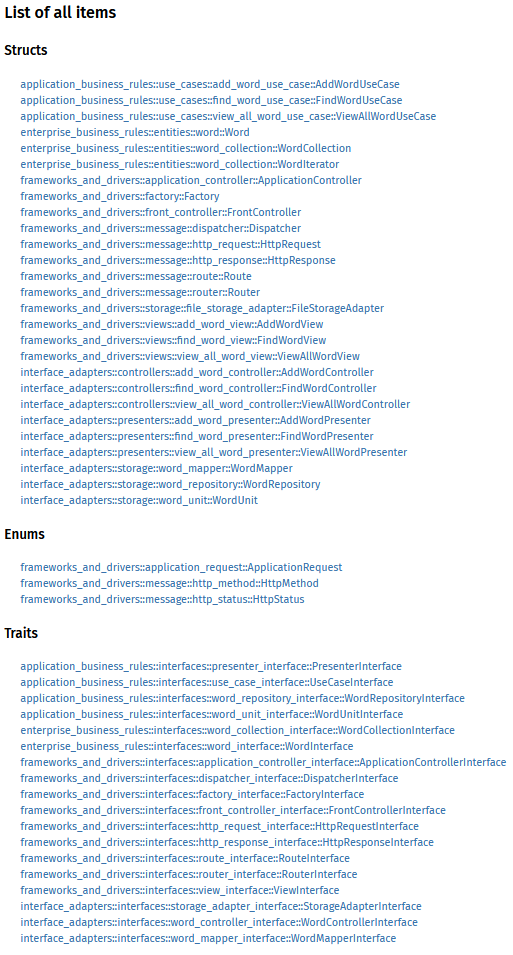
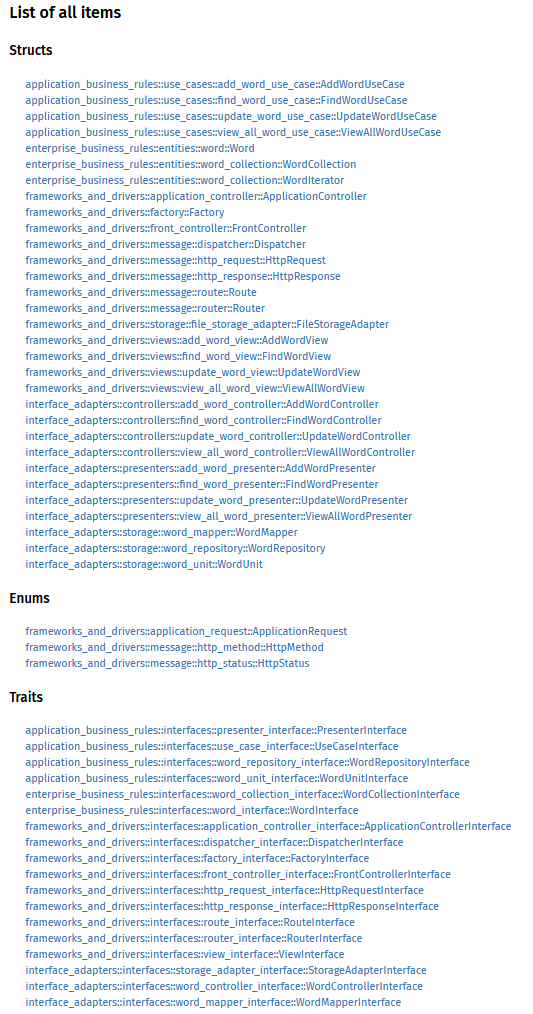
update

diff --git a/src/frameworks_and_drivers/front_controller.rs b/src/frameworks_and_drivers/front_controller.rs
@@ -50,7 +50,7 @@ impl FrontControllerInterface for FrontController {
 mod tests {
     use super::*;
     use crate::application_business_rules::interfaces::word_unit_interface::WordUnitInterface;
-    use crate::enterprise_business_rules::interfaces::word_interface::WordInterface;
+    use crate::frameworks_and_drivers::application_request::ApplicationRequest;
     use crate::frameworks_and_drivers::factory::Factory;
     use crate::frameworks_and_drivers::interfaces::factory_interface::FactoryInterface;
     use crate::frameworks_and_drivers::message::dispatcher::Dispatcher;
@@ -62,24 +62,13 @@ mod tests {
 
     #[test]
     fn find_word() {
-        let http_request: Box<dyn HttpRequestInterface> = Box::new(HttpRequest::new(
-            HttpMethod::Get,
-            "/words/ability".to_owned(),
-            None,
-        ));
-
         let route = Box::new(Route::new(HttpMethod::Get, "/words/*", "find_word"));
 
         let mut router: Box<dyn RouterInterface> = Box::new(Router::new());
 
         router.add_route(route);
 
-        let word_unit: Box<dyn WordUnitInterface> = {
-            let words: Vec<Box<dyn WordInterface>> = vec![];
-            let mut word_unit = Box::new(WordUnit::new());
-            word_unit.set_identity_map(words, false);
-            word_unit
-        };
+        let word_unit: Box<dyn WordUnitInterface> = Box::new(WordUnit::new());
 
         let factory: Box<dyn FactoryInterface> = Box::new(Factory::new());
 
@@ -87,12 +76,20 @@ mod tests {
 
         let mut front_controller = FrontController::new(dispatcher, router, word_unit);
 
+        //find existing word
+        let http_request: Box<dyn HttpRequestInterface> = Box::new(HttpRequest::new(
+            HttpMethod::Get,
+            "/words/ability".to_owned(),
+            None,
+        ));
+
         let http_response = front_controller.delegate(http_request);
 
         assert!(http_response
             .view_response()
-            .contains("Word \"ability\" is found"));
+            .contains("ability\n1000\nспособность"));
 
+        //find non-existing word
         let http_request: Box<dyn HttpRequestInterface> = Box::new(HttpRequest::new(
             HttpMethod::Get,
             "/words/qazxsw".to_owned(),
@@ -104,8 +101,6 @@ mod tests {
         assert!(http_response
             .view_response()
             .contains("Word \"qazxsw\" is not found"));
-
-        front_controller.commit_changes();
     }
 
     #[test]
@@ -132,6 +127,74 @@ mod tests {
         assert!(["a", "ability", "able"]
             .iter()
             .all(|&word| http_response.view_response().contains(word)));
+    }
+
+    #[test]
+    fn add_word_and_update() {
+        let router: Box<dyn RouterInterface> = {
+            let mut routes = vec![
+                Route::new(HttpMethod::Get, "/words/*", "find_word"),
+                Route::new(HttpMethod::Post, "/words", "add_word"),
+                Route::new(HttpMethod::Put, "/words", "update_word"),
+            ];
+
+            let mut router = Box::new(Router::new());
+            while let Some(route) = routes.pop() {
+                router.add_route(Box::new(route));
+            }
+            router
+        };
+
+        let word_unit: Box<dyn WordUnitInterface> = Box::new(WordUnit::new());
+
+        let factory: Box<dyn FactoryInterface> = Box::new(Factory::new());
+
+        let dispatcher: Box<dyn DispatcherInterface> = Box::new(Dispatcher::new(factory));
+
+        let mut front_controller = FrontController::new(dispatcher, router, word_unit);
+
+        //get non-existing word
+        let http_request: Box<dyn HttpRequestInterface> = Box::new(HttpRequest::new(
+            HttpMethod::Get,
+            "/words/newword".to_owned(),
+            None,
+        ));
+
+        let http_response = front_controller.delegate(http_request);
+
+        assert!(http_response
+            .view_response()
+            .starts_with("HTTP/1.1 404 Not Found"));
+
+        //add non-existing word
+        let http_request: Box<dyn HttpRequestInterface> = Box::new(HttpRequest::new(
+            HttpMethod::Post,
+            "/words".to_owned(),
+            Some(ApplicationRequest::Word((
+                "newword".to_owned(),
+                3000,
+                "новое слово".to_owned(),
+            ))),
+        ));
+
+        let http_response = front_controller.delegate(http_request);
+
+        assert!(http_response
+            .view_response()
+            .starts_with("HTTP/1.1 201 Created"));
+
+        //check new word
+        let http_request: Box<dyn HttpRequestInterface> = Box::new(HttpRequest::new(
+            HttpMethod::Get,
+            "/words/newword".to_owned(),
+            None,
+        ));
+
+        let http_response = front_controller.delegate(http_request);
+
+        //assert_eq!("", http_response.view_response());
+
+        assert!(http_response.view_response().starts_with("HTTP/1.1 200 OK"));
 
         front_controller.commit_changes();
     }

diff --git a/tests/add_word.rs b/tests/add_word.rs
@@ -10,39 +10,85 @@ fn add_update_delete() {
     if let Ok(mut child) = cargo_run.arg("run").spawn() {
         thread::sleep(Duration::from_secs(1)); //time to start server
 
+        //sure not exist
         let curl_output = Command::new("curl")
-            .args(&[
-                "-X",
-                "POST",
-                "-H",
-                "Content-Type: text/plain",
-                "--data-binary",
-                "newword\n3000\nновое слово",
-                "http://localhost/words",
-            ])
+            .arg("http://localhost/words/newword")
             .output()
             .expect("Failed to execute command");
-        let found = String::from_utf8(curl_output.stdout.as_slice().to_owned())
+        let page_not_exist = String::from_utf8(curl_output.stdout.as_slice().to_owned())
             .expect("Failed to convert to String");
-        assert_eq!("Word \"newword\" is added \u{1F60E}", found);
 
+        //add new word
         let curl_output = Command::new("curl")
             .args(&[
                 "-X",
                 "POST",
+                "http://localhost/words",
                 "-H",
                 "Content-Type: text/plain",
                 "--data-binary",
-                "newword\n3000\nновое слово",
-                "http://localhost/words",
+                "newword\n3000\nновое слово\n",
             ])
             .output()
             .expect("Failed to execute command");
-        let found = String::from_utf8(curl_output.stdout.as_slice().to_owned())
+        let page_add_new = String::from_utf8(curl_output.stdout.as_slice().to_owned())
             .expect("Failed to convert to String");
-        assert_eq!("Word \"newword\" is already exist \u{1F60E}", found);
+
+        //add existing word
+        let curl_output = Command::new("curl")
+            .args(&[
+                "-X",
+                "POST",
+                "http://localhost/words",
+                "-H",
+                "Content-Type: text/plain",
+                "--data-binary",
+                "newword\n3000\nновое слово\n",
+            ])
+            .output()
+            .expect("Failed to execute command");
+        let page_add_existing = String::from_utf8(curl_output.stdout.as_slice().to_owned())
+            .expect("Failed to convert to String");
+
+        //update word
+        let curl_output = Command::new("curl")
+            .args(&[
+                "-X",
+                "PUT",
+                "http://localhost/words",
+                "-i",
+                "-H",
+                "Content-Type: text/plain",
+                "--data-binary",
+                "newword\n5000\nновоеслово\n",
+            ])
+            .output()
+            .expect("Failed to execute command");
+        let page_update = String::from_utf8(curl_output.stdout.as_slice().to_owned())
+            .expect("Failed to convert to String");
+
+        //check updated word
+        let curl_output = Command::new("curl")
+            .arg("http://localhost/words/newword")
+            .output()
+            .expect("Failed to execute command");
+        let page_check_updated = String::from_utf8(curl_output.stdout.as_slice().to_owned())
+            .expect("Failed to convert to String");
+
+        //TODO delete word
+
+        //TODO check if word exists
 
         child.kill().expect("Failed to stop cargo");
+
+        assert_eq!("Word \"newword\" is not found \u{1F622}", page_not_exist);
+        assert_eq!("Word \"newword\" is added \u{1F60E}", page_add_new);
+        assert_eq!(
+            "Word \"newword\" is already exist \u{1F60E}",
+            page_add_existing
+        );
+        assert!(page_update.starts_with("HTTP/1.1 204 No Content"));
+        assert!(page_check_updated.starts_with("newword\n5000"));
     } else {
         assert!(false);
     }

diff --git a/tests/get_word.rs b/tests/get_word.rs
@@ -34,7 +34,7 @@ fn get() {
 
         child.kill().expect("Failed to stop cargo");
 
-        assert!(found.starts_with("Word \"ability\" is found"));
+        assert!(found.starts_with("ability\n1000\nспособность"));
         assert!(not_found.starts_with("Word \"qazxsw\" is not found"));
         assert!(bad_request.starts_with("HTTP/1.1 400 Bad Request"));
     } else {

diff --git a/src/main.rs b/src/main.rs
@@ -29,6 +29,7 @@ fn main() {
             Route::new(HttpMethod::Get, "/words/*", "find_word"),
             Route::new(HttpMethod::Get, "/words", "view_all"),
             Route::new(HttpMethod::Post, "/words", "add_word"),
+            Route::new(HttpMethod::Put, "/words", "update_word"),
         ];
 
         let mut router = Box::new(Router::new());
